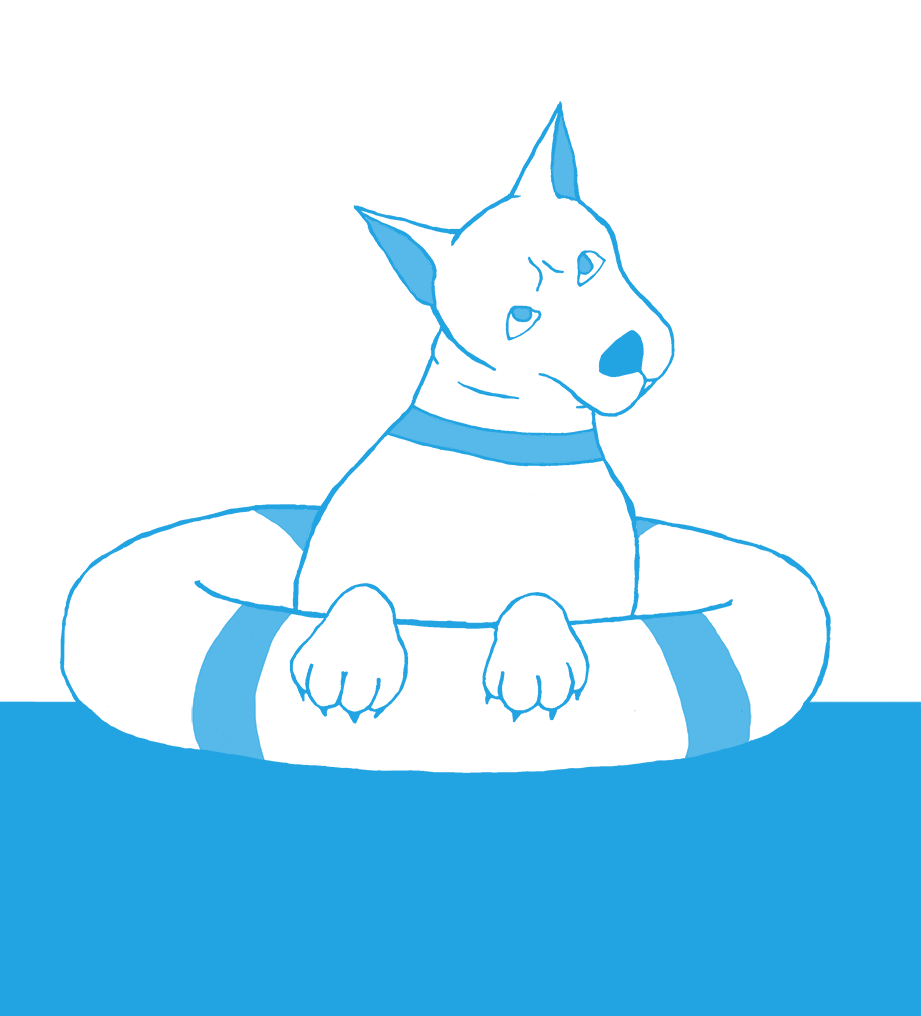
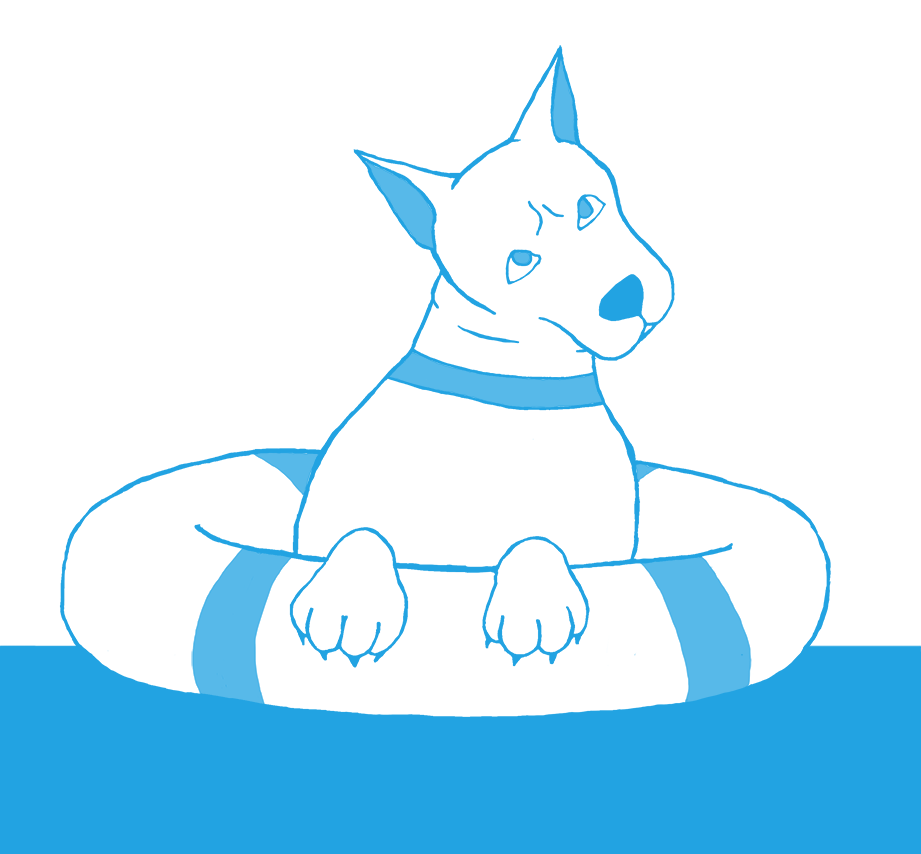
404 Page CSS

Changed region(s): [[0.0, 0.0609, 1.0, 0.8525]]

diff --git a/css/404Styles.css b/css/404Styles.css
@@ -47,54 +47,149 @@ table {
 border-spacing: 0;
 }
 
-img{
-	max-width: 100%;
+@media screen and (min-width: 1200px){
+	img{
+		max-width: 100%;
+		margin-top: -300px;
+		margin-left: 50px;
+	}
+
+	html{
+		height: 100%;
+	}
+
+	body{
+		background: linear-gradient(to bottom, #ffffff 0%,#ffffff 69%, #22a3e2 69%, #22a3e2 100%);
+		font-family: 'Muli', sans-serif;
+
+		}
+		
+	h2{
+		font-size: 1.5em;
+		margin-bottom: 20px;
+	}	
+
+	a {
+		text-decoration: none;
+		font-weight: bold;
+	}
+	#errorBox{
+		position: fixed;
+		margin-top: 350px;
+		margin-left: 700px;
+		text-align: center;
+		}
+	
+	#returnHome{
+		background-color: #e01f10;
+		color: #ffffff;
+		padding: 10px;
+		font-size: 1.25em;
+		
+	}
 }
 
-body{
-		background-color: #22a3e2;
+@media screen and (max-width: 1200px) and (min-width: 768px){
+	img{
+		max-width: 100%;
+		margin-top: -300px;
+		margin-left: 50px;
+	}
+
+	html{
+		height: 100%;
+		
+	}
+
+	body{
+		height: 100%;
+		margin: 0;
+		background-repeat: no-repeat;
+		background-attachment: fixed;
+		background: linear-gradient(to bottom, #ffffff 0%,#ffffff 60%, #22a3e2 60%, #22a3e2 100%);
 		font-family: 'Muli', sans-serif;
+
+		}
+		
+	h2{
+		font-size: 1.5em;
+		margin-bottom: 20px;
+	}	
+
+	a {
+		text-decoration: none;
+		font-weight: bold;
+			
+	}
+	
+	#errorBox{
+		position: fixed;
+		display: flex;
+		flex-direction: column;
+		margin-top: 250px;
+		margin-left: 50px;
+		width: 30%;
+		text-align: center;
+		}
+	
+	#returnHome{
+		background-color: #e01f10;
+		padding: 10px;
+		font-size: 1.25em;
+		color: #ffffff;
 		
 	}
 	
-	#whitebox{
-		background-color: #ffffff;
-		padding: 351px;
-		display: fixed;
-		z-index: -1px;
-
-	}
 	
-h2{
-	font-size: 1.5em;
-	margin-top: -40px;
-}	
-
-a {
-	text-decoration: none;
-	font-weight: bold;
 }
-#errorBox{
-		position: fixed;
-		display: flex;
-		justify-content: center;
-		z-index: 1;
-		margin-top: 300px;
-		margin-left: 700px;
-		width: 40%;
+
+@media screen and (max-width: 768px){
+	img{
+		max-width: 100%;
+		margin-top: -200px;
+		margin-left: 20px;
 	}
-	
+
+	html{
+		height: 100%;
+		
+	}
+
+	body{
+		height: 100%;
+		margin: 0;
+		background-repeat: no-repeat;
+		background-attachment: fixed;
+		background: linear-gradient(to bottom, #ffffff 0%,#ffffff 20%, #22a3e2 20%, #22a3e2 100%);
+		font-family: 'Muli', sans-serif;
+
+		}
+		
+	h2{
+		font-size: 1.5em;
+		margin-bottom: 20px;
+	}	
+
+	a {
+		text-decoration: none;
+		font-weight: bold;
+			
+	}
+	#errorBox{
+		display: flex;
+		flex-direction: column;
+		width: 50%;		
+		margin: 0 auto;
+		text-align: center;
+		}
 	
 	#returnHome{
-		position: fixed;
 		background-color: #e01f10;
-		font-size: 1.5em;
-		color: #ffffff;
 		padding: 10px;
+		font-size: 1.25em;
+		color: #ffffff;
+		
 	}
 	
-	#backLink{
-		position: fixed;
-		z-index: 1;
-		padding-top: 50px;
-	}
+	
+}

diff --git a/404.html b/404.html
@@ -6,16 +6,18 @@
 		<meta name="viewport" content="width=device-width, initial-scale=1.0">
 		<title>Page not found</title>
 		<link href="https://fonts.googleapis.com/css?family=Muli" rel="stylesheet">
-		<link rel="stylesheet" href="css/styles.css">
+		<link rel="stylesheet" href="css/404styles.css">
 		</head>
 	<body id="404Body">
-		<img align="left" src="pictures/404.png" alt="Illustration of a dog in an inner tube looking confused and sad">
-		<div id="whitebox">
+		<div id="wrap">
+		<img align="left" src="pictures/2DaRescue404.png" alt="Illustration of a dog in an inner tube looking confused and sad">
+		<div id ="errorBox">
+			<h2 id="errorMessage">Oops! We've gone adrift!</h2>
+			<a id="returnHome" href="index.html">Click here to return to the 2DaRescue Homepage</a>
+			<br>
+			<br>
+			<a id="backLink" href="javascript:history.back()">Or click here to go back</a>
 		</div>
-		<h2 id="errorMessage">Oops! We've gone adrift!</h2>
-		<a id="returnHome" href="index.html">Click here to return to the 2DaRescue Homepage</a>
-		<a id="backLink" href="javascript:history.back()">Or click here to go back</a>
-		<div id="colorbox">
 		</div>
 	</body>
 <html>

diff --git a/css/styles.css b/css/styles.css
@@ -488,6 +488,8 @@ footer a{
 		margin-bottom: 20px;
 		background-color: #ededed;
 		border-style: solid;	
+		padding: 5px;
+		font-size: 1em;
 	}
 	
 
